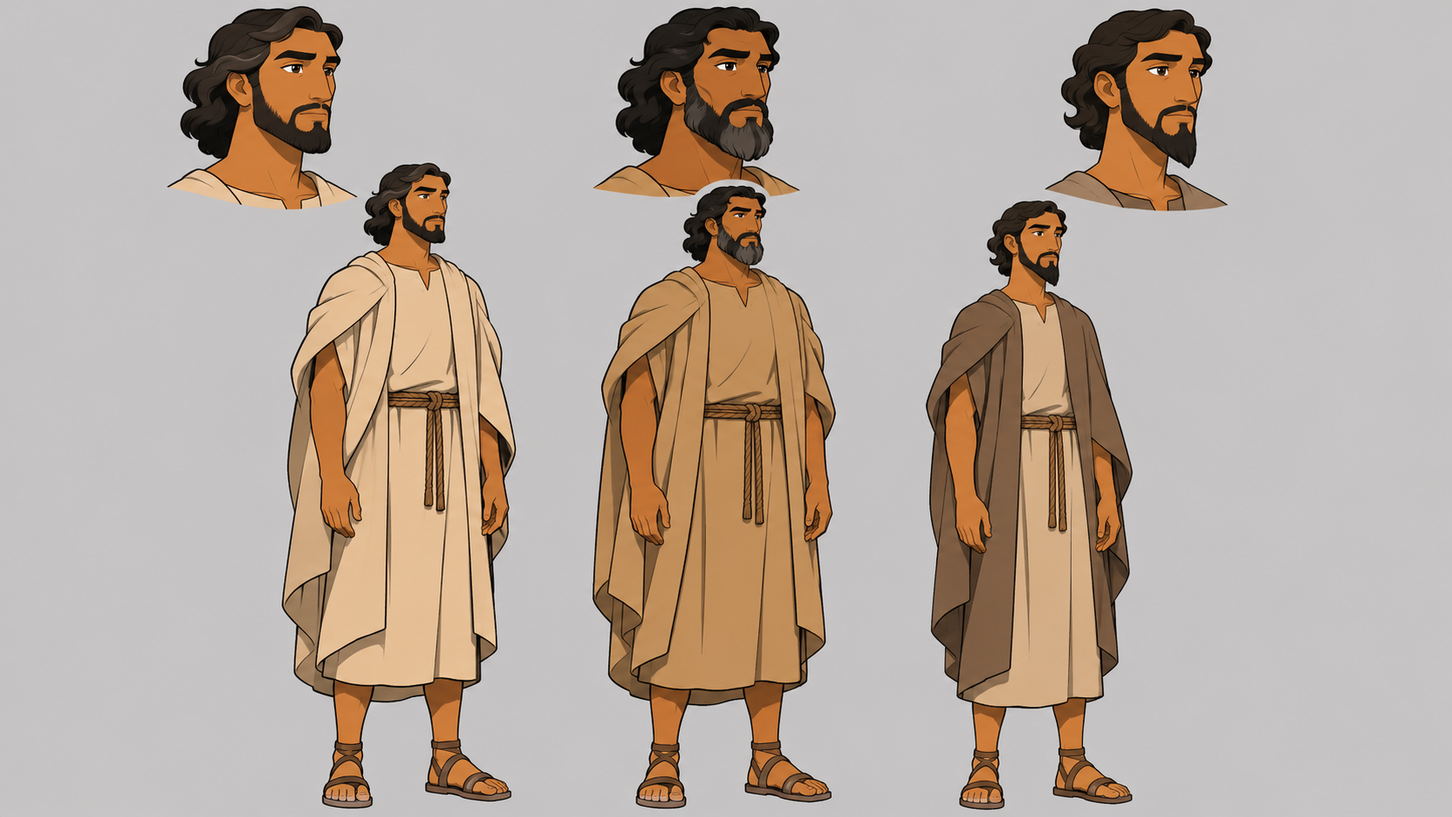
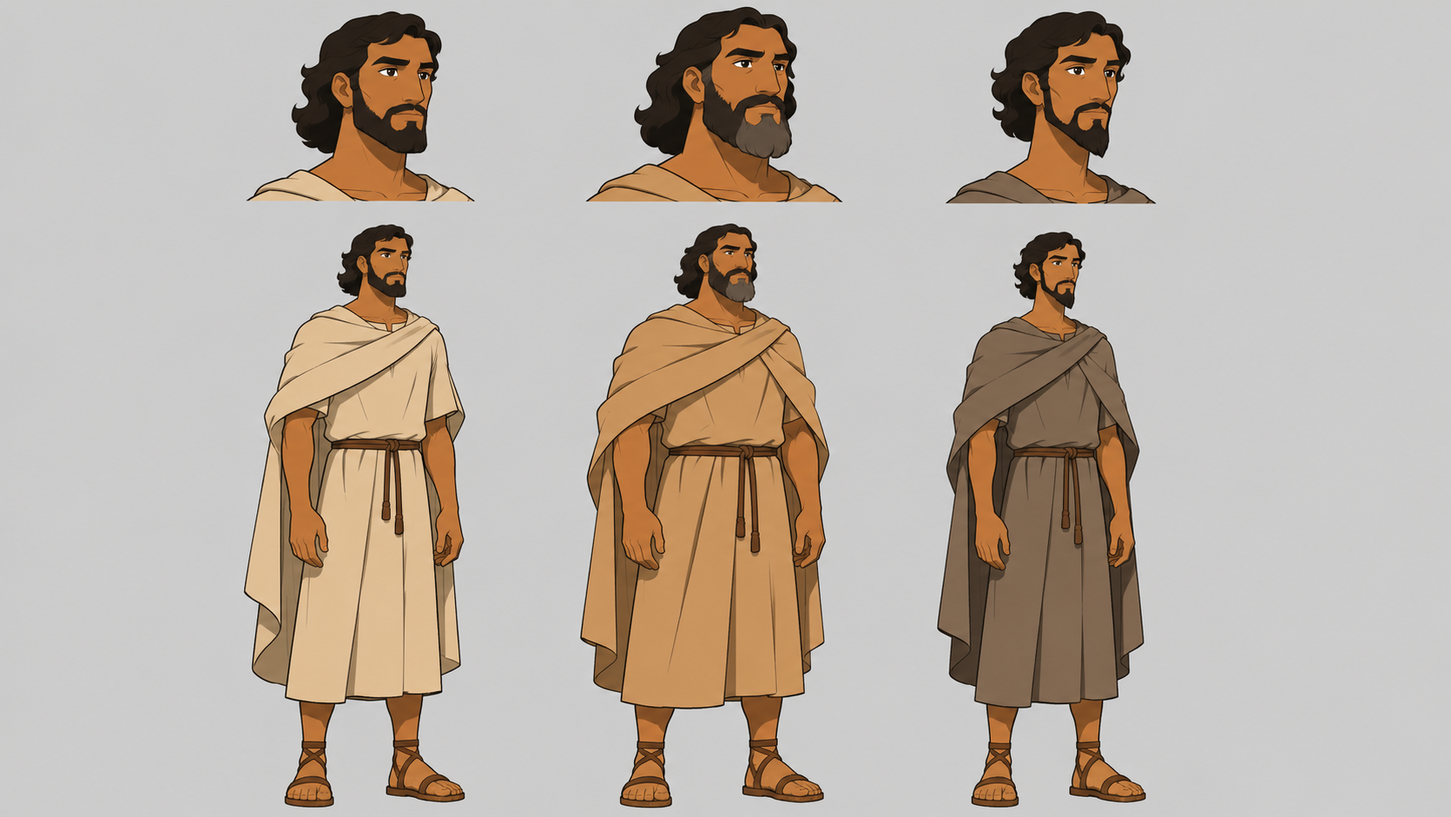
Varones de Mamre regenerados; escenarios sin frisos egipcios ni rama de la lámina 1
Las salas de Lot, Gerar y Betuel copiaban el friso de lotos de la lámina de
interior (Egipto): negativo de paredes lisas. Las escenas de ciudad repetían
la rama de la lámina 1 arriba a la izquierda: sin_laminas.

Changed region(s): [[0.1245, 0.0, 0.3734, 1.0], [0.6224, 0.0, 0.8402, 1.0], [0.3734, 0.0, 0.5913, 1.0]]

diff --git a/guiones/personajes/varones-mamre.md b/guiones/personajes/varones-mamre.md
@@ -41,8 +41,8 @@ Generar en ChatGPT Images (o GPT Image en Higgsfield) y guardar como `guiones/im
 
 Adjuntar en ChatGPT las láminas patrón de estilo (ver `estilo.md`): `guiones/imagenes/estilo/patron-1-paisaje.png`, `guiones/imagenes/estilo/patron-2-interior.png`, `guiones/imagenes/estilo/patron-3-grupo.png` (siempre).
 
-_Hoja de referencia de grupo sobre fondo gris claro liso: tres hombres de pie en fila, de cuerpo entero, con un primer plano de cada rostro encima. Caminantes de Asia occidental, hombres hechos de unos treinta y cinco a cuarenta años, iguales en rango, de gesto sereno, grave y callado; piel morena, ojos oscuros, pelo oscuro hasta la nuca. El de la izquierda, alto, con barba oscura corta; el del centro, ancho de hombros, con barba oscura algo más larga y entrecana; el de la derecha, más delgado, con barba oscura recortada en punta. Cada uno con túnica lisa de lana sin teñir hasta debajo de la rodilla y manto liso del mismo tejido: crudo el primero, arena el segundo y gris pardo el tercero, todos en tonos apagados y mates. Cinturón de cuerda y sandalias sencillas; pies con polvo del camino; cabeza descubierta y manos vacías. Hombres corrientes, con la misma luz suave de día que el fondo._ Evitar: _Sin alas, luz propia, rayos, destellos, aire radiante ni túnicas blancas brillantes; que ninguno sea más grande, destacado ni importante que los otros; sin cayados, espadas, coronas, turbantes, paños en la cabeza, joyas ni telas de franjas o dibujos; ni muchachos ni viejos; sin árbol, tienda, comida, ciudad ni otras personas; fondo liso._
+_Hoja de referencia de grupo sobre fondo gris claro liso: tres hombres de pie en fila, de cuerpo entero, con un primer plano de cada rostro en una fila propia arriba, bien separada de las figuras, sin tocar ni tapar ninguna cabeza. Caminantes de Asia occidental, hombres hechos de unos treinta y cinco a cuarenta años, iguales en rango, de gesto sereno, grave y callado; piel morena, ojos oscuros, pelo oscuro hasta la nuca. El de la izquierda, alto, con barba oscura corta; el del centro, ancho de hombros, con barba oscura algo más larga y entrecana; el de la derecha, más delgado, con barba oscura recortada en punta. Cada uno con túnica lisa de lana sin teñir hasta debajo de la rodilla y manto liso del mismo tejido: crudo el primero, arena el segundo y gris pardo el tercero, todos en tonos apagados y mates. Cinturón de cuerda y sandalias sencillas; pies con polvo del camino; cabeza descubierta y manos vacías. Hombres corrientes, con la misma luz suave de día que el fondo._ Evitar: _Que ningún primer plano tape una cabeza; ningún contorno, arco, borde ni aro blanco alrededor de una cabeza. Sin alas, luz propia, rayos, destellos, aire radiante ni túnicas blancas brillantes; que ninguno sea más grande, destacado ni importante que los otros; sin cayados, espadas, coronas, turbantes, paños en la cabeza, joyas ni telas de franjas o dibujos; ni muchachos ni viejos; sin árbol, tienda, comida, ciudad ni otras personas; fondo liso._
 
 ```text
-Create a frame from a 2D hand-drawn animated feature film, in a wide 16:9 frame and one consistent house style: clean, bold dark outlines; flat colors with crisp hard-edged cel shadows in one or two tones; simplified, slightly angular faces with strong jawlines, defined brows and expressive eyes; athletic but believable adult proportions. The backgrounds are softly painted, with more texture and atmosphere than the characters. Use a muted earthy palette of ochre, sand, olive, terracotta and deep blue, with natural light only: daylight, dusk or the glow of oil lamps. Base the people, their dress and the architecture on records of the ancient Near East, and keep the composition clear and readable. Match the line work, shading and palette of the attached style reference panels exactly. Make a group reference sheet on a plain light grey background, showing three men standing in a single row, each one fully visible from head to feet, with a close-up of each face above. They are travelers from western Asia, grown men of about thirty-five to forty, equal in rank and calm, grave and quiet in expression, with brown skin, dark eyes and dark hair that reaches the nape of the neck. The man on the left is tall, with a short dark beard; the man in the middle is broad-shouldered, with a slightly longer dark beard touched with grey; the man on the right is slimmer, with a dark beard trimmed to a point. Each wears a plain tunic of undyed wool that reaches below the knee, with a plain cloak of the same cloth: cream for the first, sand for the second and grey-brown for the third, all in muted, matte tones. They wear cord belts and simple sandals, their feet are dusty from the road, their heads are bare, and their hands are empty. They are ordinary men lit only by the same soft daylight as the background. Do not use photographic realism, 3D or CGI rendering, oil-paint or watercolor texture on the characters, anime or manga features, or chibi or cartoonish caricature. Do not add superhero costumes, capes, masks, emblems or exaggerated muscles. Avoid the look of a glossy video game or a Hollywood blockbuster. Do not add lens flares, neon, halos, glowing auras or wings. Do not include modern clothing or objects, medieval or Renaissance European costume, Roman armor or fantasy costume. Do not write any text, captions, speech balloons, panel borders, watermarks or logos. Show no blood or graphic violence and no heavy makeup. Do not give them wings, glowing light, rays, sparkles, a radiant or shining look, or bright white robes. Do not make one of them larger, more prominent or more important than the others. Do not give them staffs, swords, crowns, turbans, head cloths, jewelry or striped or patterned cloth. Do not make them young boys or old men. Do not paint a tree, a tent, food, a city or any other person, and keep the background plain.
+Create a frame from a 2D hand-drawn animated feature film, in a wide 16:9 frame and one consistent house style: clean, bold dark outlines; flat colors with crisp hard-edged cel shadows in one or two tones; simplified, slightly angular faces with strong jawlines, defined brows and expressive eyes; athletic but believable adult proportions. The backgrounds are softly painted, with more texture and atmosphere than the characters. Use a muted earthy palette of ochre, sand, olive, terracotta and deep blue, with natural light only: daylight, dusk or the glow of oil lamps. Base the people, their dress and the architecture on records of the ancient Near East, and keep the composition clear and readable. Match the line work, shading and palette of the attached style reference panels exactly. Make a group reference sheet on a plain light grey background, showing three men standing in a single row, each one fully visible from head to feet, with a close-up of each face in a clear row of its own along the top of the sheet, well separated from the standing figures so that no close-up touches or covers any head. They are travelers from western Asia, grown men of about thirty-five to forty, equal in rank and calm, grave and quiet in expression, with brown skin, dark eyes and dark hair that reaches the nape of the neck. The man on the left is tall, with a short dark beard; the man in the middle is broad-shouldered, with a slightly longer dark beard touched with grey; the man on the right is slimmer, with a dark beard trimmed to a point. Each wears a plain tunic of undyed wool that reaches below the knee, with a plain cloak of the same cloth: cream for the first, sand for the second and grey-brown for the third, all in muted, matte tones. They wear cord belts and simple sandals, their feet are dusty from the road, their heads are bare, and their hands are empty. They are ordinary men lit only by the same soft daylight as the background. Do not use photographic realism, 3D or CGI rendering, oil-paint or watercolor texture on the characters, anime or manga features, or chibi or cartoonish caricature. Do not add superhero costumes, capes, masks, emblems or exaggerated muscles. Avoid the look of a glossy video game or a Hollywood blockbuster. Do not add lens flares, neon, halos, glowing auras or wings. Do not include modern clothing or objects, medieval or Renaissance European costume, Roman armor or fantasy costume. Do not write any text, captions, speech balloons, panel borders, watermarks or logos. Show no blood or graphic violence and no heavy makeup. Do not give them wings, glowing light, rays, sparkles, a radiant or shining look, or bright white robes. Do not let a close-up overlap a head, and do not draw any white outline, arc, rim or ring around a head. Do not make one of them larger, more prominent or more important than the others. Do not give them staffs, swords, crowns, turbans, head cloths, jewelry or striped or patterned cloth. Do not make them young boys or old men. Do not paint a tree, a tent, food, a city or any other person, and keep the background plain.
 ```

diff --git a/guiones/escenarios/casa-betuel.md b/guiones/escenarios/casa-betuel.md
@@ -25,10 +25,10 @@ Generado por `python -I herramientas/guiones.py`. No editar a mano.
 
 Generar en ChatGPT Images (o GPT Image en Higgsfield) y guardar como `guiones/imagenes/escenarios/casa-betuel.png`; luego subirla a Cinema Studio como Element `CASA_BETUEL`.
 
-Adjuntar en ChatGPT las láminas patrón de estilo (ver `estilo.md`): `guiones/imagenes/estilo/patron-1-paisaje.png`, `guiones/imagenes/estilo/patron-2-interior.png`, `guiones/imagenes/estilo/patron-3-grupo.png` (siempre).
+Adjuntar en ChatGPT las láminas patrón de estilo (ver `estilo.md`): `guiones/imagenes/estilo/patron-2-interior.png`, `guiones/imagenes/estilo/patron-3-grupo.png` (no `patron-1-paisaje.png`: copiaba su composición).
 
-_Una sola vista general del patio de una casa de familia en una ciudad pequeña del antiguo Oriente Próximo, a última hora de la tarde, sin personas ni animales. El patio, ancho y de tierra apisonada, está cerrado por muros de adobe enlucido. A lo largo de un lado hay un cobertizo abierto de ramas y cañas sobre postes de madera, con montones de paja y forraje debajo, y cerca un abrevadero de adobe, unas tinajas grandes de agua y una jofaina ancha de barro para lavar los pies. Al fondo, una habitación de techo plano se abre al patio y deja ver esteras de junco, una mesa baja de madera y lamparillas de aceite, y una escalera de adobe sube al tejado. Una luz cálida y baja de la tarde cruza el patio._ Evitar: _Sin paneles ni dos momentos lado a lado. Sin personas, camellos, oro, joyas, cofres de tesoro ni alfombras lujosas. Que no sea un palacio, una villa romana ni un edificio con cúpulas y arcos apuntados._
+_Una sola vista general del patio de una casa de familia en una ciudad pequeña del antiguo Oriente Próximo, a última hora de la tarde, sin personas ni animales. El patio, ancho y de tierra apisonada, está cerrado por muros de adobe enlucido. A lo largo de un lado hay un cobertizo abierto de ramas y cañas sobre postes de madera, con montones de paja y forraje debajo, y cerca un abrevadero de adobe, unas tinajas grandes de agua y una jofaina ancha de barro para lavar los pies. Al fondo, una habitación de techo plano se abre al patio y deja ver esteras de junco, una mesa baja de madera y lamparillas de aceite, y una escalera de adobe sube al tejado. Una luz cálida y baja de la tarde cruza el patio._ Evitar: _Sin lotos, papiros ni otros motivos egipcios, ni frisos ni franjas pintadas en las paredes: las paredes son de barro enlucido liso. Sin paneles ni dos momentos lado a lado. Sin personas, camellos, oro, joyas, cofres de tesoro ni alfombras lujosas. Que no sea un palacio, una villa romana ni un edificio con cúpulas y arcos apuntados._
 
 ```text
-Create a frame from a 2D hand-drawn animated feature film, in a wide 16:9 frame and one consistent house style: clean, bold dark outlines; flat colors with crisp hard-edged cel shadows in one or two tones; simplified, slightly angular faces with strong jawlines, defined brows and expressive eyes; athletic but believable adult proportions. The backgrounds are softly painted, with more texture and atmosphere than the characters. Use a muted earthy palette of ochre, sand, olive, terracotta and deep blue, with natural light only: daylight, dusk or the glow of oil lamps. Base the people, their dress and the architecture on records of the ancient Near East, and keep the composition clear and readable. Match the line work, shading and palette of the attached style reference panels exactly. Make one single establishing view of the courtyard of a family house in a small town in the ancient Near East, in the late afternoon, with no people and no animals in it. The wide courtyard of beaten earth is enclosed by plastered mud-brick walls. Along one side runs an open shelter of branches and reeds on wooden posts, with heaps of straw and fodder under it, and nearby there is a mud-brick water trough, a few large clay water jars and a wide clay basin for washing feet. At the back, a room with a flat roof opens onto the courtyard, showing reed mats, a low wooden table and small oil lamps inside, and a mud-brick stair climbs to the roof. Warm, low evening light falls across the yard. Do not use photographic realism, 3D or CGI rendering, oil-paint or watercolor texture on the characters, anime or manga features, or chibi or cartoonish caricature. Do not add superhero costumes, capes, masks, emblems or exaggerated muscles. Avoid the look of a glossy video game or a Hollywood blockbuster. Do not add lens flares, neon, halos, glowing auras or wings. Do not include modern clothing or objects, medieval or Renaissance European costume, Roman armor or fantasy costume. Do not write any text, captions, speech balloons, panel borders, watermarks or logos. Show no blood or graphic violence and no heavy makeup. Do not split the picture into panels or show two moments side by side. Do not paint people, camels, gold, jewelry, chests of treasure or rich carpets. Do not make it a palace, a Roman villa or a building with domes and pointed arches.
+Create a frame from a 2D hand-drawn animated feature film, in a wide 16:9 frame and one consistent house style: clean, bold dark outlines; flat colors with crisp hard-edged cel shadows in one or two tones; simplified, slightly angular faces with strong jawlines, defined brows and expressive eyes; athletic but believable adult proportions. The backgrounds are softly painted, with more texture and atmosphere than the characters. Use a muted earthy palette of ochre, sand, olive, terracotta and deep blue, with natural light only: daylight, dusk or the glow of oil lamps. Base the people, their dress and the architecture on records of the ancient Near East, and keep the composition clear and readable. Match the line work, shading and palette of the attached style reference panels exactly. Make one single establishing view of the courtyard of a family house in a small town in the ancient Near East, in the late afternoon, with no people and no animals in it. The wide courtyard of beaten earth is enclosed by plastered mud-brick walls. Along one side runs an open shelter of branches and reeds on wooden posts, with heaps of straw and fodder under it, and nearby there is a mud-brick water trough, a few large clay water jars and a wide clay basin for washing feet. At the back, a room with a flat roof opens onto the courtyard, showing reed mats, a low wooden table and small oil lamps inside, and a mud-brick stair climbs to the roof. Warm, low evening light falls across the yard. Do not use photographic realism, 3D or CGI rendering, oil-paint or watercolor texture on the characters, anime or manga features, or chibi or cartoonish caricature. Do not add superhero costumes, capes, masks, emblems or exaggerated muscles. Avoid the look of a glossy video game or a Hollywood blockbuster. Do not add lens flares, neon, halos, glowing auras or wings. Do not include modern clothing or objects, medieval or Renaissance European costume, Roman armor or fantasy costume. Do not write any text, captions, speech balloons, panel borders, watermarks or logos. Show no blood or graphic violence and no heavy makeup. Do not paint lotus, papyrus or other Egyptian motifs, friezes or painted bands on the walls; the walls are plain mud plaster. Do not split the picture into panels or show two moments side by side. Do not paint people, camels, gold, jewelry, chests of treasure or rich carpets. Do not make it a palace, a Roman villa or a building with domes and pointed arches.
 ```

diff --git a/guiones/escenarios/gerar.md b/guiones/escenarios/gerar.md
@@ -28,8 +28,8 @@ Generar en ChatGPT Images (o GPT Image en Higgsfield) y guardar como `guiones/im
 
 Adjuntar en ChatGPT las láminas patrón de estilo (ver `estilo.md`): `guiones/imagenes/estilo/patron-1-paisaje.png`, `guiones/imagenes/estilo/patron-2-interior.png`, `guiones/imagenes/estilo/patron-3-grupo.png` (siempre).
 
-_Una sola vista general de la sala principal de la casa del rey de una ciudad pequeña del sur seco de Canaán, en el antiguo Oriente Próximo, por la mañana y sin personas. Las paredes son de adobe enlucido, y dos postes sencillos de madera sostienen un techo plano de vigas y cañas. Un banco de obra bajo recorre una pared, cubierto de esteras y mantas tejidas con franjas azul oscuro, blancas y ocres, y contra la pared del fondo hay un asiento de madera sencillo, algo más alto. Unas tinajas de barro en un rincón, y la luz de la mañana entra por una puerta ancha abierta a un patio soleado._ Evitar: _Sin paneles ni dos momentos lado a lado. Sin trono, silla real dorada o tallada, columnas de piedra, estatuas, ídolos, armas, estandartes ni personas. Que no sea un palacio egipcio, griego ni romano._
+_Una sola vista general de la sala principal de la casa del rey de una ciudad pequeña del sur seco de Canaán, en el antiguo Oriente Próximo, por la mañana y sin personas. Las paredes son de adobe enlucido, y dos postes sencillos de madera sostienen un techo plano de vigas y cañas. Un banco de obra bajo recorre una pared, cubierto de esteras y mantas tejidas con franjas azul oscuro, blancas y ocres, y contra la pared del fondo hay un asiento de madera sencillo, algo más alto. Unas tinajas de barro en un rincón, y la luz de la mañana entra por una puerta ancha abierta a un patio soleado._ Evitar: _Sin lotos, papiros ni otros motivos egipcios, ni frisos ni franjas pintadas en las paredes: las paredes son de barro enlucido liso. Sin paneles ni dos momentos lado a lado. Sin trono, silla real dorada o tallada, columnas de piedra, estatuas, ídolos, armas, estandartes ni personas. Que no sea un palacio egipcio, griego ni romano._
 
 ```text
-Create a frame from a 2D hand-drawn animated feature film, in a wide 16:9 frame and one consistent house style: clean, bold dark outlines; flat colors with crisp hard-edged cel shadows in one or two tones; simplified, slightly angular faces with strong jawlines, defined brows and expressive eyes; athletic but believable adult proportions. The backgrounds are softly painted, with more texture and atmosphere than the characters. Use a muted earthy palette of ochre, sand, olive, terracotta and deep blue, with natural light only: daylight, dusk or the glow of oil lamps. Base the people, their dress and the architecture on records of the ancient Near East, and keep the composition clear and readable. Match the line work, shading and palette of the attached style reference panels exactly. Make one single establishing view of the main hall in the house of the king of a small town in the dry south of Canaan in the ancient Near East, in the morning, with no people in it. The walls are plastered mud brick, and two plain wooden posts hold up a flat ceiling of beams and reeds. A low built bench runs along one wall, covered with mats and woven blankets with stripes of dark blue, white and ochre, and a slightly higher, plain wooden seat stands against the back wall. Clay storage jars stand in a corner, and morning light comes in through a wide doorway that opens onto a sunlit courtyard. Do not use photographic realism, 3D or CGI rendering, oil-paint or watercolor texture on the characters, anime or manga features, or chibi or cartoonish caricature. Do not add superhero costumes, capes, masks, emblems or exaggerated muscles. Avoid the look of a glossy video game or a Hollywood blockbuster. Do not add lens flares, neon, halos, glowing auras or wings. Do not include modern clothing or objects, medieval or Renaissance European costume, Roman armor or fantasy costume. Do not write any text, captions, speech balloons, panel borders, watermarks or logos. Show no blood or graphic violence and no heavy makeup. Do not split the picture into panels or show two moments side by side. Do not paint a throne, a gold or carved royal chair, stone columns, statues, idols, weapons, banners or any person. Do not make it an Egyptian, Greek or Roman palace.
+Create a frame from a 2D hand-drawn animated feature film, in a wide 16:9 frame and one consistent house style: clean, bold dark outlines; flat colors with crisp hard-edged cel shadows in one or two tones; simplified, slightly angular faces with strong jawlines, defined brows and expressive eyes; athletic but believable adult proportions. The backgrounds are softly painted, with more texture and atmosphere than the characters. Use a muted earthy palette of ochre, sand, olive, terracotta and deep blue, with natural light only: daylight, dusk or the glow of oil lamps. Base the people, their dress and the architecture on records of the ancient Near East, and keep the composition clear and readable. Match the line work, shading and palette of the attached style reference panels exactly. Make one single establishing view of the main hall in the house of the king of a small town in the dry south of Canaan in the ancient Near East, in the morning, with no people in it. The walls are plastered mud brick, and two plain wooden posts hold up a flat ceiling of beams and reeds. A low built bench runs along one wall, covered with mats and woven blankets with stripes of dark blue, white and ochre, and a slightly higher, plain wooden seat stands against the back wall. Clay storage jars stand in a corner, and morning light comes in through a wide doorway that opens onto a sunlit courtyard. Do not use photographic realism, 3D or CGI rendering, oil-paint or watercolor texture on the characters, anime or manga features, or chibi or cartoonish caricature. Do not add superhero costumes, capes, masks, emblems or exaggerated muscles. Avoid the look of a glossy video game or a Hollywood blockbuster. Do not add lens flares, neon, halos, glowing auras or wings. Do not include modern clothing or objects, medieval or Renaissance European costume, Roman armor or fantasy costume. Do not write any text, captions, speech balloons, panel borders, watermarks or logos. Show no blood or graphic violence and no heavy makeup. Do not paint lotus, papyrus or other Egyptian motifs, friezes or painted bands on the walls; the walls are plain mud plaster. Do not split the picture into panels or show two moments side by side. Do not paint a throne, a gold or carved royal chair, stone columns, statues, idols, weapons, banners or any person. Do not make it an Egyptian, Greek or Roman palace.
 ```

diff --git a/guiones/escenarios/casa-lot-sala.md b/guiones/escenarios/casa-lot-sala.md
@@ -23,8 +23,8 @@ Generar en ChatGPT Images (o GPT Image en Higgsfield) y guardar como `guiones/im
 
 Adjuntar en ChatGPT las láminas patrón de estilo (ver `estilo.md`): `guiones/imagenes/estilo/patron-1-paisaje.png`, `guiones/imagenes/estilo/patron-2-interior.png`, `guiones/imagenes/estilo/patron-3-grupo.png` (siempre).
 
-_Una sola vista general de la sala principal de una casa de ciudad del antiguo Oriente Próximo, de noche y sin personas. Las paredes son de adobe enlucido y el suelo de tierra apisonada, cubierto de esteras sencillas de junco. Hay una mesa baja de madera, unos cojines sobre las esteras, tinajas de barro a lo largo de una pared y un hogar bajo de barro en un rincón. Lamparillas de aceite en hornacinas dan una luz cálida. En la pared del fondo, la puerta pesada de madera de dos hojas de la casa, cerrada y atrancada por dentro con una viga._ Evitar: _Sin paneles ni dos momentos lado a lado. Sin personas, comida, vino, armas, camas, muebles lujosos ni más fuego que las llamitas de las lámparas y el hogar. Que no sea la sala de un palacio; sin luz fuerte que entre por ventanas._
+_Una sola vista general de la sala principal de una casa de ciudad del antiguo Oriente Próximo, de noche y sin personas. Las paredes son de adobe enlucido y el suelo de tierra apisonada, cubierto de esteras sencillas de junco. Hay una mesa baja de madera, unos cojines sobre las esteras, tinajas de barro a lo largo de una pared y un hogar bajo de barro en un rincón. Lamparillas de aceite en hornacinas dan una luz cálida. En la pared del fondo, la puerta pesada de madera de dos hojas de la casa, cerrada y atrancada por dentro con una viga._ Evitar: _Sin lotos, papiros ni otros motivos egipcios, ni frisos ni franjas pintadas en las paredes: las paredes son de barro enlucido liso. Sin paneles ni dos momentos lado a lado. Sin personas, comida, vino, armas, camas, muebles lujosos ni más fuego que las llamitas de las lámparas y el hogar. Que no sea la sala de un palacio; sin luz fuerte que entre por ventanas._
 
 ```text
-Create a frame from a 2D hand-drawn animated feature film, in a wide 16:9 frame and one consistent house style: clean, bold dark outlines; flat colors with crisp hard-edged cel shadows in one or two tones; simplified, slightly angular faces with strong jawlines, defined brows and expressive eyes; athletic but believable adult proportions. The backgrounds are softly painted, with more texture and atmosphere than the characters. Use a muted earthy palette of ochre, sand, olive, terracotta and deep blue, with natural light only: daylight, dusk or the glow of oil lamps. Base the people, their dress and the architecture on records of the ancient Near East, and keep the composition clear and readable. Match the line work, shading and palette of the attached style reference panels exactly. Make one single establishing view of the main room of a town house in the ancient Near East at night, with no people in it. The walls are plastered mud brick and the floor is beaten earth covered with plain reed mats. There is a low wooden table, a few cushions on the mats, clay storage jars along one wall and a low clay hearth in a corner. Small oil lamps in wall niches give a warm glow. In the far wall, the heavy two-leaf wooden door of the house is closed and barred from the inside with a wooden beam. Do not use photographic realism, 3D or CGI rendering, oil-paint or watercolor texture on the characters, anime or manga features, or chibi or cartoonish caricature. Do not add superhero costumes, capes, masks, emblems or exaggerated muscles. Avoid the look of a glossy video game or a Hollywood blockbuster. Do not add lens flares, neon, halos, glowing auras or wings. Do not include modern clothing or objects, medieval or Renaissance European costume, Roman armor or fantasy costume. Do not write any text, captions, speech balloons, panel borders, watermarks or logos. Show no blood or graphic violence and no heavy makeup. Do not split the picture into panels or show two moments side by side. Do not paint people, food, wine, weapons, beds, rich furniture or any fire other than the small lamp flames and the hearth. Do not make it a palace hall, and do not add bright light coming through windows.
+Create a frame from a 2D hand-drawn animated feature film, in a wide 16:9 frame and one consistent house style: clean, bold dark outlines; flat colors with crisp hard-edged cel shadows in one or two tones; simplified, slightly angular faces with strong jawlines, defined brows and expressive eyes; athletic but believable adult proportions. The backgrounds are softly painted, with more texture and atmosphere than the characters. Use a muted earthy palette of ochre, sand, olive, terracotta and deep blue, with natural light only: daylight, dusk or the glow of oil lamps. Base the people, their dress and the architecture on records of the ancient Near East, and keep the composition clear and readable. Match the line work, shading and palette of the attached style reference panels exactly. Make one single establishing view of the main room of a town house in the ancient Near East at night, with no people in it. The walls are plastered mud brick and the floor is beaten earth covered with plain reed mats. There is a low wooden table, a few cushions on the mats, clay storage jars along one wall and a low clay hearth in a corner. Small oil lamps in wall niches give a warm glow. In the far wall, the heavy two-leaf wooden door of the house is closed and barred from the inside with a wooden beam. Do not use photographic realism, 3D or CGI rendering, oil-paint or watercolor texture on the characters, anime or manga features, or chibi or cartoonish caricature. Do not add superhero costumes, capes, masks, emblems or exaggerated muscles. Avoid the look of a glossy video game or a Hollywood blockbuster. Do not add lens flares, neon, halos, glowing auras or wings. Do not include modern clothing or objects, medieval or Renaissance European costume, Roman armor or fantasy costume. Do not write any text, captions, speech balloons, panel borders, watermarks or logos. Show no blood or graphic violence and no heavy makeup. Do not paint lotus, papyrus or other Egyptian motifs, friezes or painted bands on the walls; the walls are plain mud plaster. Do not split the picture into panels or show two moments side by side. Do not paint people, food, wine, weapons, beds, rich furniture or any fire other than the small lamp flames and the hearth. Do not make it a palace hall, and do not add bright light coming through windows.
 ```

diff --git a/guiones/escenarios/pozo-nacor.md b/guiones/escenarios/pozo-nacor.md
@@ -31,7 +31,7 @@ Generado por `python -I herramientas/guiones.py`. No editar a mano.
 
 Generar en ChatGPT Images (o GPT Image en Higgsfield) y guardar como `guiones/imagenes/escenarios/pozo-nacor.png`; luego subirla a Cinema Studio como Element `POZO_NACOR`.
 
-Adjuntar en ChatGPT las láminas patrón de estilo (ver `estilo.md`): `guiones/imagenes/estilo/patron-1-paisaje.png`, `guiones/imagenes/estilo/patron-2-interior.png`, `guiones/imagenes/estilo/patron-3-grupo.png` (siempre).
+Adjuntar en ChatGPT las láminas patrón de estilo (ver `estilo.md`): `guiones/imagenes/estilo/patron-2-interior.png`, `guiones/imagenes/estilo/patron-3-grupo.png` (no `patron-1-paisaje.png`: copiaba su composición).
 
 _Una sola vista general del lugar del agua fuera de una ciudad pequeña amurallada del antiguo Oriente Próximo, a última hora de la tarde, sin personas ni animales. En primer término, un hueco ancho en la tierra con escalones de piedra tosca que bajan a un pozo o manantial con agua oscura al fondo. Junto al hueco, a ras de suelo, una pila larga y baja de piedra para abrevar, y alrededor tierra apisonada con piedras sueltas. A poca distancia, detrás, los muros de adobe de la ciudad sobre un zócalo de piedra tosca, con una puerta sencilla y casas de techo plano que asoman sobre el muro, todo con luz cálida y baja de la tarde._ Evitar: _Sin paneles ni dos momentos lado a lado. Sin polea, torno, tejadillo sobre el pozo, cubo con cadena ni fuente tallada. Sin zigurats, templos, palacios, torres ni ladrillo vidriado. Sin personas, camellos, cántaros ni otros animales._
 

diff --git a/guiones/escenarios/sodoma.md b/guiones/escenarios/sodoma.md
@@ -21,7 +21,7 @@ Generado por `python -I herramientas/guiones.py`. No editar a mano.
 
 Generar en ChatGPT Images (o GPT Image en Higgsfield) y guardar como `guiones/imagenes/escenarios/sodoma.png`; luego subirla a Cinema Studio como Element `PUERTA_SODOMA`.
 
-Adjuntar en ChatGPT las láminas patrón de estilo (ver `estilo.md`): `guiones/imagenes/estilo/patron-1-paisaje.png`, `guiones/imagenes/estilo/patron-2-interior.png`, `guiones/imagenes/estilo/patron-3-grupo.png` (siempre).
+Adjuntar en ChatGPT las láminas patrón de estilo (ver `estilo.md`): `guiones/imagenes/estilo/patron-2-interior.png`, `guiones/imagenes/estilo/patron-3-grupo.png` (no `patron-1-paisaje.png`: copiaba su composición).
 
 _Una sola vista general de la puerta de una ciudad amurallada en una llanura fértil del antiguo Oriente Próximo, a la caída de la tarde y sin personas. Una muralla de adobe sobre un zócalo de piedra tosca se extiende a los dos lados, y la puerta es un paso hondo entre dos torres bajas y cuadradas, con batientes de madera pesados abiertos y bancos sencillos de piedra a lo largo de las paredes del paso. Por la puerta se ven una plaza pequeña y casas de adobe de techo plano. Fuera de la muralla hay campos verdes de riego, y la luz es el naranja cálido del atardecer, con sombras largas._ Evitar: _Sin paneles ni dos momentos lado a lado. Sin fuego, humo, ruinas, palacio, templos, ídolos, estatuas, soldados, estandartes ni personas. Que la ciudad no parezca malvada ni monstruosa; sin monstruos tallados, calaveras ni cielo oscuro de tormenta._
 

diff --git a/guiones/escenarios/casa-lot-puerta.md b/guiones/escenarios/casa-lot-puerta.md
@@ -25,7 +25,7 @@ Generado por `python -I herramientas/guiones.py`. No editar a mano.
 
 Generar en ChatGPT Images (o GPT Image en Higgsfield) y guardar como `guiones/imagenes/escenarios/casa-lot-puerta.png`; luego subirla a Cinema Studio como Element `PUERTA_CASA_LOT`.
 
-Adjuntar en ChatGPT las láminas patrón de estilo (ver `estilo.md`): `guiones/imagenes/estilo/patron-1-paisaje.png`, `guiones/imagenes/estilo/patron-2-interior.png`, `guiones/imagenes/estilo/patron-3-grupo.png` (siempre).
+Adjuntar en ChatGPT las láminas patrón de estilo (ver `estilo.md`): `guiones/imagenes/estilo/patron-2-interior.png`, `guiones/imagenes/estilo/patron-3-grupo.png` (no `patron-1-paisaje.png`: copiaba su composición).
 
 _Una sola vista general de la fachada de una casa de ciudad del antiguo Oriente Próximo, de noche, vista desde una calle estrecha y sin personas. La casa tiene muros de adobe enlucido, tejado plano con un pretil bajo y una sola ventana pequeña y alta. En la entrada, una puerta de madera gruesa de dos hojas con travesaños, bien cerrada, bajo un dintel de madera. La calle es de tierra apisonada entre otras casas sencillas de adobe. La única luz es el resplandor cálido de una lamparilla de aceite en una hornacina junto a la puerta, contra el azul profundo de la noche._ Evitar: _Sin paneles ni dos momentos lado a lado. Sin personas, sombras de personas, armas, antorchas, fuego, sangre ni golpes en la puerta. Que la casa no sea un palacio ni un castillo; sin resplandor ni rayos alrededor de la puerta._
 

diff --git a/guiones/escenarios/puerta-het.md b/guiones/escenarios/puerta-het.md
@@ -24,7 +24,7 @@ Generado por `python -I herramientas/guiones.py`. No editar a mano.
 
 Generar en ChatGPT Images (o GPT Image en Higgsfield) y guardar como `guiones/imagenes/escenarios/puerta-het.png`; luego subirla a Cinema Studio como Element `PUERTA_HET`.
 
-Adjuntar en ChatGPT las láminas patrón de estilo (ver `estilo.md`): `guiones/imagenes/estilo/patron-1-paisaje.png`, `guiones/imagenes/estilo/patron-2-interior.png`, `guiones/imagenes/estilo/patron-3-grupo.png` (siempre).
+Adjuntar en ChatGPT las láminas patrón de estilo (ver `estilo.md`): `guiones/imagenes/estilo/patron-2-interior.png`, `guiones/imagenes/estilo/patron-3-grupo.png` (no `patron-1-paisaje.png`: copiaba su composición).
 
 _Una sola vista general de la puerta de una ciudad pequeña de colina en Canaán, en el antiguo Oriente Próximo, de día y sin personas. La muralla es de piedras toscas sin labrar abajo y de adobe arriba, y la puerta es un paso corto entre dos torres bajas, con batientes de madera pesados abiertos y bancos sencillos de piedra a lo largo de las paredes del paso. Delante de la puerta hay una explanada pequeña de tierra apisonada donde puede reunirse gente. Detrás de la muralla, casas de techo plano suben por la ladera de la colina bajo un cielo despejado._ Evitar: _Sin paneles ni dos momentos lado a lado. Sin palacio, templos, estatuas, soldados, estandartes, mercado, balanzas, plata ni personas. Que no sea la puerta de un castillo medieval con almenas y rastrillo._
 
